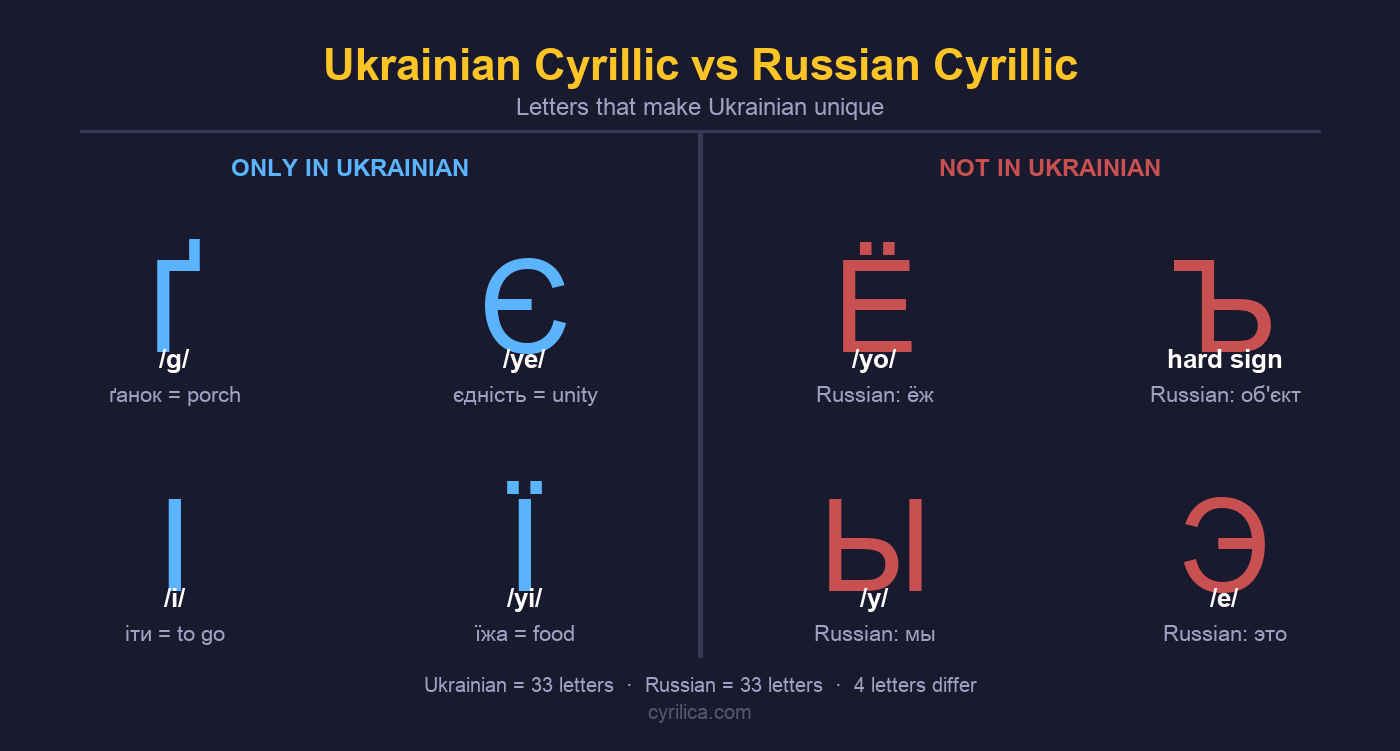
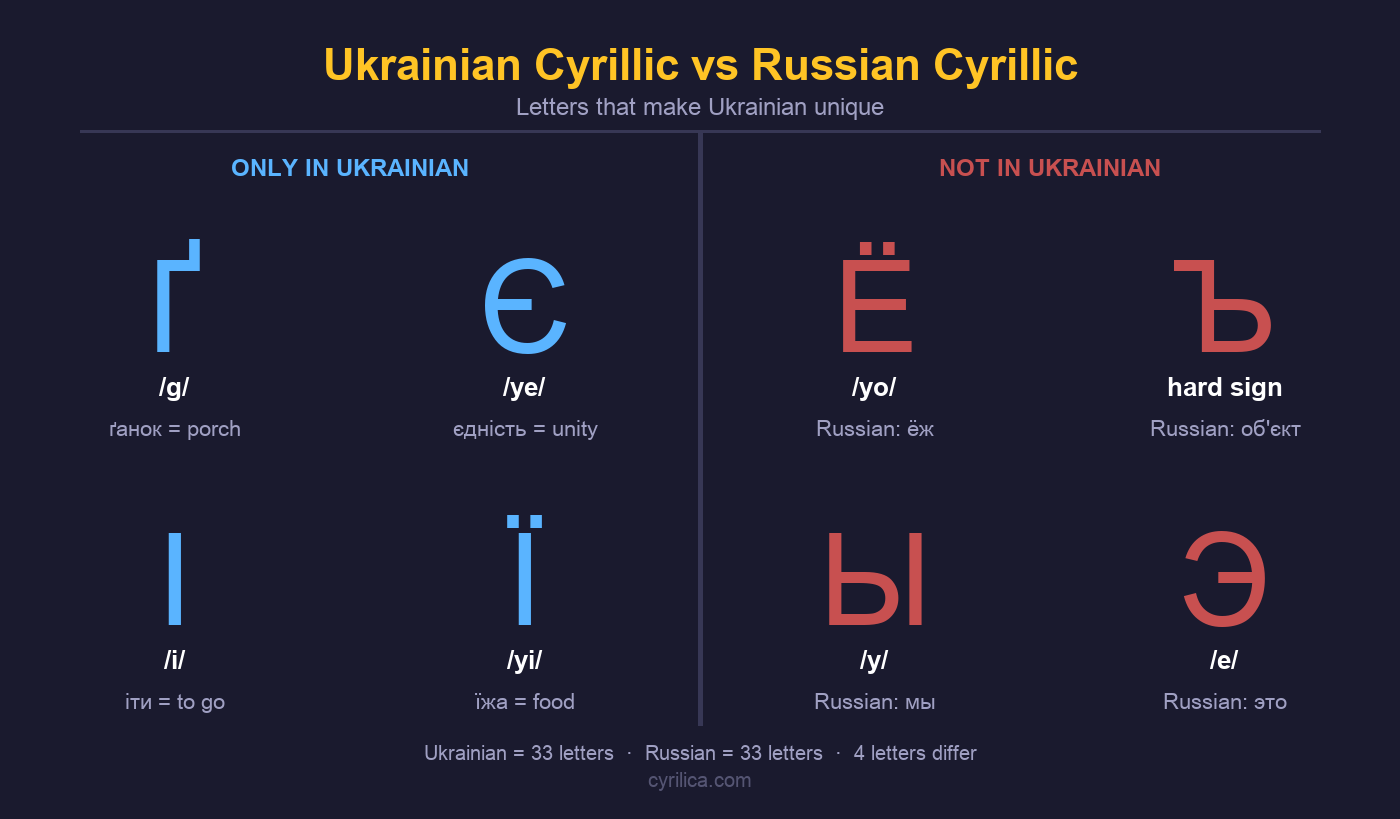
Fix spacing between Cyrillic letters and pronunciation labels in Ukrainian image
Increased GAP_LS from 8 to 22 SCALE units to prevent overlap.

diff --git a/make_ukrainian_image.py b/make_ukrainian_image.py
@@ -51,8 +51,8 @@ def text_w(text, font):
 LETTER_H  = text_h("Ґ", font_letter)
 SOUND_H   = text_h("/g/", font_sound)
 EXAMPLE_H = text_h("ґанок = porch", font_example)
-GAP_LS    = 8 * SCALE   # letter → sound gap
-GAP_SE    = 5 * SCALE   # sound  → example gap
+GAP_LS    = 22 * SCALE  # letter → sound gap
+GAP_SE    = 8 * SCALE   # sound  → example gap
 
 CELL_CONTENT_H = LETTER_H + GAP_LS + SOUND_H + GAP_SE + EXAMPLE_H
 